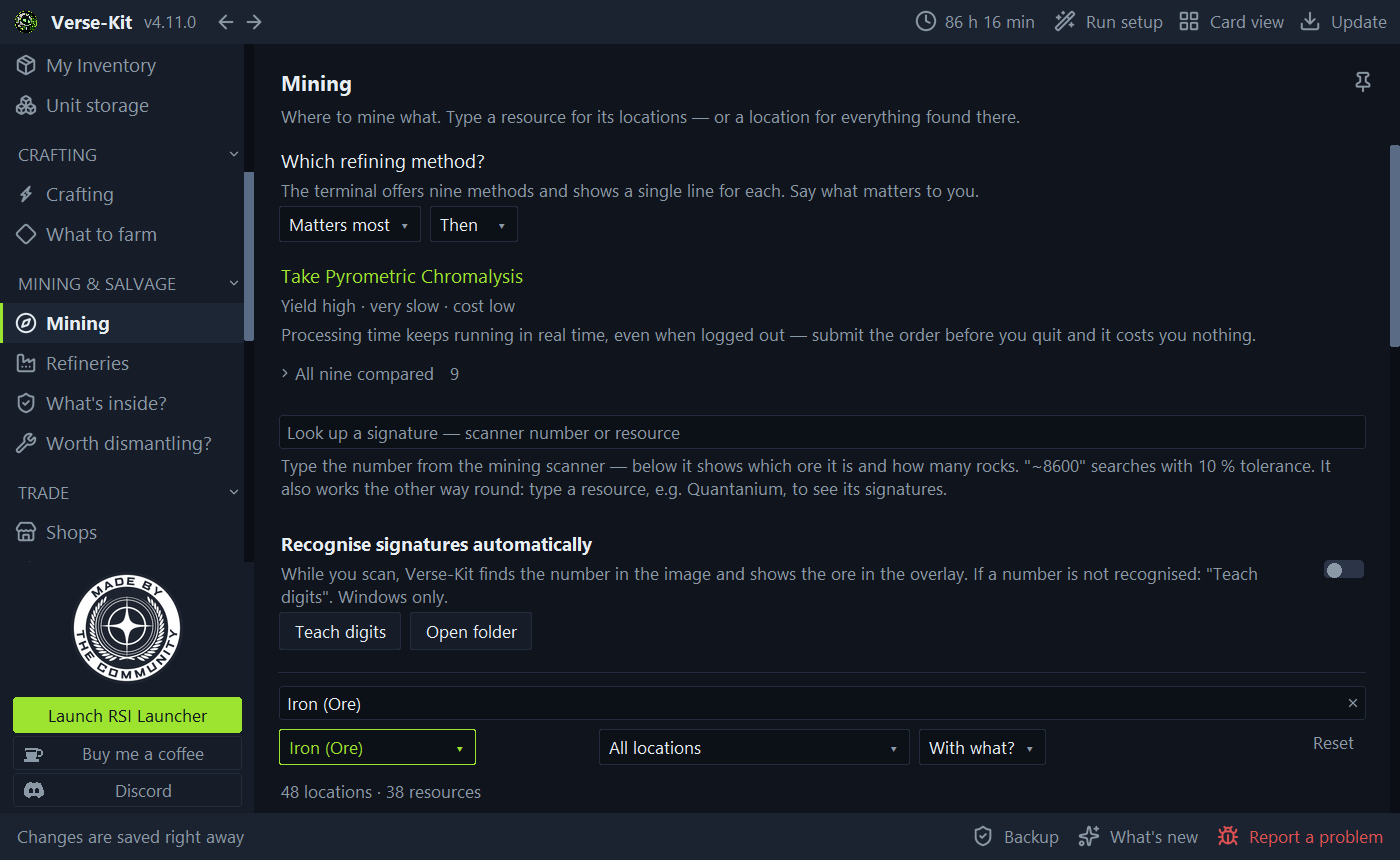
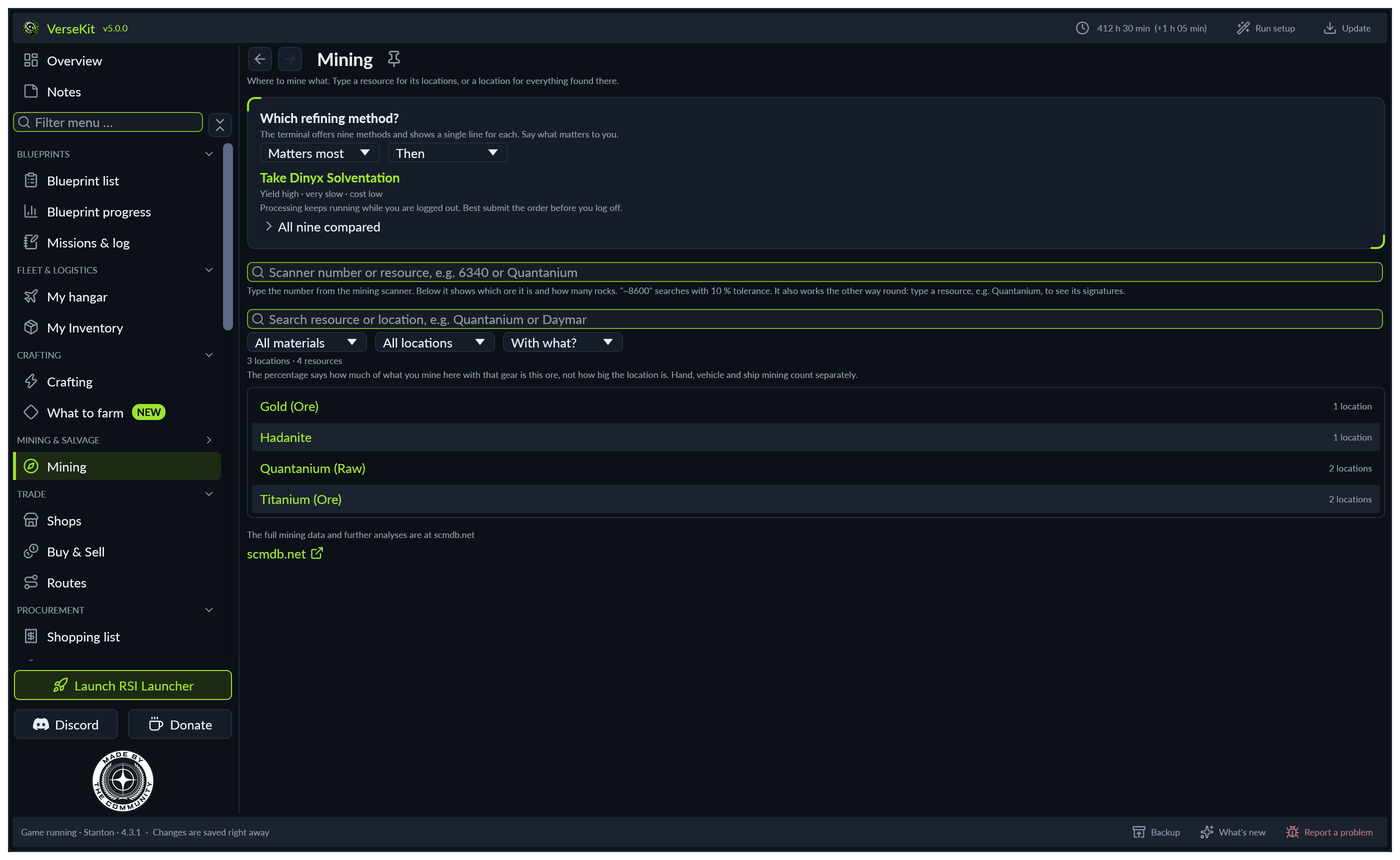
Website pictures of 5.0

diff --git a/tools/bildwerkzeug/src/main.rs b/tools/bildwerkzeug/src/main.rs
@@ -27,7 +27,8 @@
 //! einrichtung (every step of the real setup assistant for a new program),
 //! willkommen (every step of the short setup "Willkommen in 5.0" for a program
 //! set up with 4.12; both on a throwaway data folder, nothing of the computer
-//! is touched), galerie (the pictures of the gallery of 5.0, 700 × 430).
+//! is touched), galerie (the pictures of the gallery of 5.0, 700 × 430),
+//! webseite (one picture of the whole window per page of the website, 1400 × 860).
 //! `--en` draws in English (default German).
 //! Targets are found by their names and roles, not by fixed points, so the
 //! images keep working when the sample page changes.
@@ -351,6 +352,85 @@ fn gallery_pictures(dir: &str, english: bool) {
     }
 }
 
+/// The pictures of the website: the whole window model with the menu, one page each on the sample data, drawn at
+/// twice the size and shrunk to 1400 × 860 pixels. Named as the website takes them: `screenshot-<name>.png`, in
+/// English `screenshot-<name>-en.png`. A page key of `None` is the start page the window opens on.
+fn website_pictures(dir: &str, english: bool) {
+    const SIZE: egui::Vec2 = vec2(1400.0, 860.0);
+    let pages: [(&str, Option<&str>); 15] = [
+        ("uebersicht", None),
+        ("liste", Some("hf_liste")),
+        ("auftragstexte", Some("hf_spiel")),
+        ("herstellung", Some("hf_herstellung")),
+        ("raffinerien", Some("hf_raffinerien")),
+        ("bergbau", Some("hf_bergbau")),
+        ("hangar", Some("hf_hangar")),
+        ("meinlager", Some("hf_meinlager")),
+        ("einkaufsliste", Some("hf_einkaufsliste")),
+        ("routen", Some("hf_routen")),
+        ("verkauf", Some("hf_verkauf")),
+        ("statistik", Some("hf_st_uebersicht")),
+        ("joysticks", Some("hf_joysticks")),
+        ("karten", Some("hf_contested")),
+        ("handlesuche", Some("hf_handlesuche")),
+    ];
+    for (name, key) in pages {
+        let mut page = SamplePage::preview_still();
+        let (mut installed, mut opened) = (false, false);
+        let harness = Harness::builder()
+            .with_size(SIZE)
+            .with_pixels_per_point(SCALE)
+            .with_max_steps(50)
+            .with_accessibility_check(false)
+            .wgpu()
+            .build_ui(move |ui| {
+                if !installed {
+                    versekit_ui::install(ui.ctx());
+                    installed = true;
+                    ui.ctx().request_repaint();
+                    return;
+                }
+                if !opened {
+                    if let Some(key) = key {
+                        let group = versekit_ui::sample::group_of_page(key).expect("Seite im Menü");
+                        page.open_page(ui.ctx(), key, group);
+                    }
+                    opened = true;
+                }
+                page.show(ui);
+            });
+        let mut s = Shots { dir: dir.to_string(), harness };
+        s.steps(12);
+        // A page that only lists shows more with the first entry open.
+        if name == "herstellung" {
+            let first = s
+                .harness
+                .query_all_by(|n| n.label().or_else(|| n.value()).is_some_and(|v| v.contains("Frostline")))
+                .map(|n| n.rect())
+                .next();
+            match first {
+                Some(first) => s.click(first.center()),
+                None => println!("Herstellung: Frostline nicht gefunden, Seite ohne Auswahl"),
+            }
+            s.steps(8);
+        }
+        s.harness.remove_cursor();
+        s.steps(3);
+        let image = (0..5)
+            .find_map(|_| {
+                s.harness.render().ok().or_else(|| {
+                    std::thread::sleep(std::time::Duration::from_millis(800));
+                    None
+                })
+            })
+            .expect("render");
+        let small = image::imageops::resize(&image, 1400, 860, image::imageops::FilterType::Lanczos3);
+        let file = format!("{}/screenshot-{name}{}.png", s.dir, if english { "-en" } else { "" });
+        small.save(&file).expect("Bild speichern");
+        println!("gespeichert: {file}");
+    }
+}
+
 fn main() {
     // `--en` draws in English; the other words are the folder, the scheme, the kind of pictures, a search word.
     let mut words: Vec<String> = std::env::args().skip(1).collect();
@@ -377,6 +457,11 @@ fn main() {
 
     if what == "galerie" {
         gallery_pictures(&dir, english);
+        return;
+    }
+
+    if what == "webseite" {
+        website_pictures(&dir, english);
         return;
     }
 

diff --git a/crates/versekit-ui/src/sample.rs b/crates/versekit-ui/src/sample.rs
@@ -1189,6 +1189,15 @@ impl SamplePage {
         page
     }
 
+    /// [`Self::preview`] without the made-up update bar and the made-up loading in the foot bar: for pictures of
+    /// the window that stand for the program as it is.
+    pub fn preview_still() -> Self {
+        let mut page = Self::preview();
+        page.update_version = String::new();
+        page.loading_shown = true;
+        page
+    }
+
     /// Connects the pages that talk to the Basetool to the real one (the sync
     /// of the program, see [`basetool_page::Wire::system`]): nothing goes out
     /// before a switch is on and someone connects. Where the connection cannot
@@ -5828,6 +5837,11 @@ const SALVAGE_PAGE: &str = "hf_bergung";
 const ASOP_PAGE: &str = "hf_asop";
 
 /// The group a page belongs to; empty for the page at the top of the menu, which has none.
+/// The menu group of the page `page`, for tools that open a page by its key.
+pub fn group_of_page(page: &str) -> Option<&'static str> {
+    group_of(page)
+}
+
 fn group_of(page: &str) -> Option<&'static str> {
     if page == TOP_PAGE.0 {
         return Some("");
